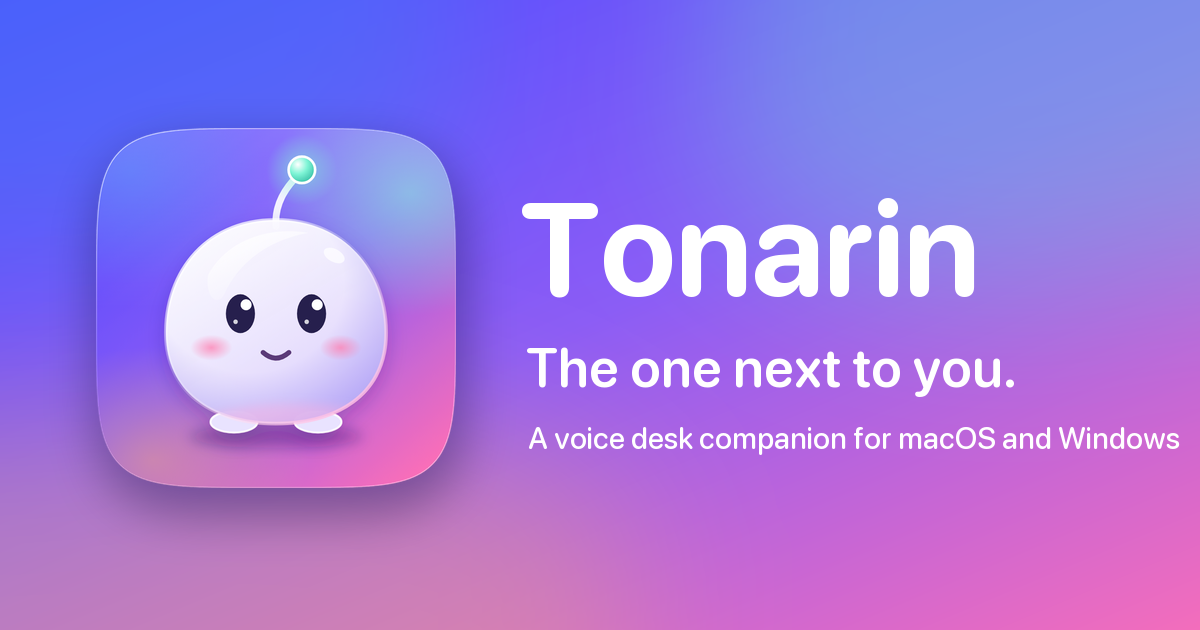
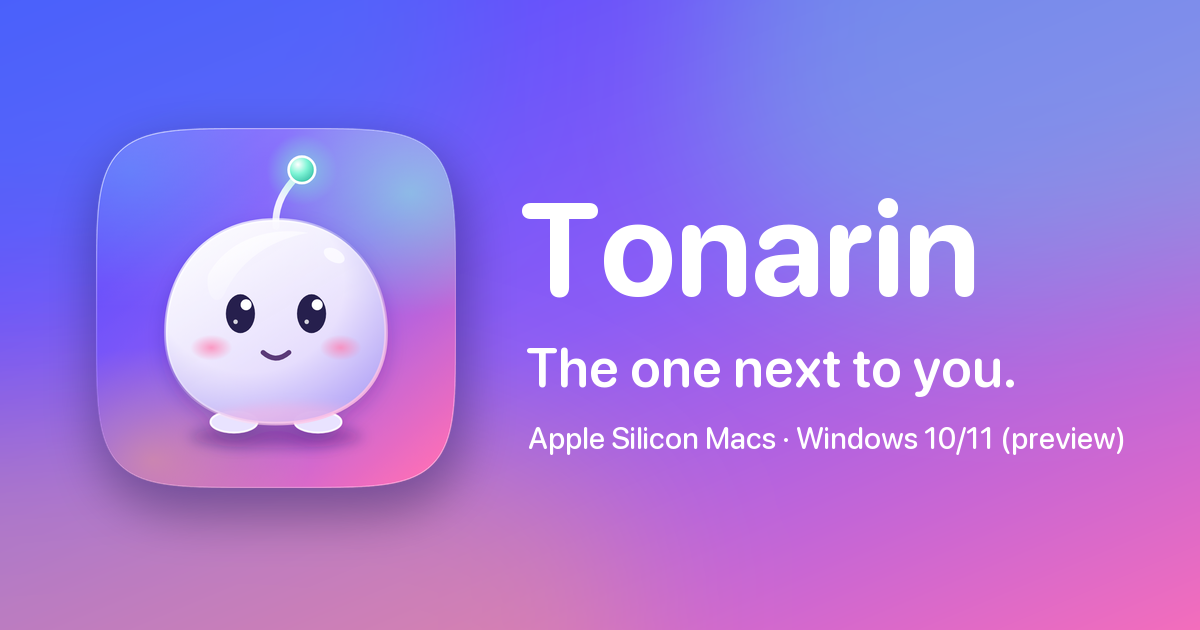
docs: clarify windows preview across public surfaces

Changed region(s): [[0.4317, 0.6635, 0.9867, 0.7238]]

diff --git a/site/app.js b/site/app.js
@@ -23,8 +23,8 @@ const TEXT = {
     fine: {
       mac: "Apple Silicon の Mac 用です (Intel の Mac はまだ対応していません)。",
       win: "Windows 10 / 11 用のプレビュー版です。",
-      other: "Tonarin は macOS (Apple Silicon) と Windows 10 / 11 で動きます。",
-      handheld: "Tonarin はパソコン用のアプリです。Mac (Apple Silicon) か Windows 10 / 11 のパソコンでこのページを開いてください。",
+      other: "Tonarin は Apple Silicon の Mac と Windows 10 / 11（x64 / ARM64、プレビュー）で動きます。",
+      handheld: "Tonarin は Apple Silicon の Mac と Windows 10 / 11（x64 / ARM64、プレビュー）向けのパソコン用アプリです。インストールするには、このページをどちらかのパソコンで開いてください。",
     },
     fineTail: ["Mac 版はアドホック署名済みですが Apple の公証は受けていません。Windows 版は未署名です。初回起動時に警告が出る場合は、", "はじめての起動", "の手順をどうぞ。"],
     noRelease: "最初のリリースを準備しています。それまではソースからビルドできます。",
@@ -49,7 +49,7 @@ const TEXT = {
     answer: {
       win: (tag) => `うん、${tag} から Windows でも話せるようになったよ。まだプレビュー版だけどね。この PC 用はこれ！`,
       mac: (tag) => `うん。Apple Silicon の Mac 用はこれだよ。${tag} が最新！`,
-      other: () => "Mac (Apple Silicon) と Windows で動くよ。どっちにする？",
+      other: () => "Apple Silicon の Mac と Windows 10 / 11（プレビュー）で動くよ。どっちにする？",
       none: () => "もうすぐ最初のリリースだよ。それまではソースからビルドしてね。",
       error: () => "うまく読み込めなかったみたい。GitHub の Releases から持っていってね。",
     },
@@ -67,8 +67,8 @@ const TEXT = {
     fine: {
       mac: "For Apple Silicon Macs (Intel Macs are not supported yet).",
       win: "A preview for Windows 10 and 11.",
-      other: "Tonarin runs on macOS (Apple Silicon) and Windows 10 / 11.",
-      handheld: "Tonarin is a desktop app: open this page on a Mac (Apple Silicon) or a Windows 10 / 11 PC to install it.",
+      other: "Tonarin runs on Apple Silicon Macs and Windows 10/11 x64/ARM64 (preview).",
+      handheld: "Tonarin is a desktop app for Apple Silicon Macs and Windows 10/11 x64/ARM64 (preview). Open this page on one of those computers to install it.",
     },
     fineTail: ["Mac builds are ad hoc signed but not notarized by Apple; Windows installers are unsigned. A warning may appear when you first open the app; see ", "the first launch", " steps."],
     noRelease: "The first release is on its way. Until then you can build from source.",
@@ -93,7 +93,7 @@ const TEXT = {
     answer: {
       win: (tag) => `Yes! Since ${tag} I can talk on Windows too. It's a preview for now. This one's for your PC!`,
       mac: (tag) => `Yes. Here's the one for Apple Silicon Macs. ${tag} is the latest!`,
-      other: () => "I run on Apple Silicon Macs and on Windows. Which one's yours?",
+      other: () => "I run on Apple Silicon Macs and Windows 10/11 (preview). Which one's yours?",
       none: () => "The first release is coming soon. Until then, you can build me from source.",
       error: () => "I couldn't load the list. Grab me from the Releases page on GitHub.",
     },

diff --git a/site/index.html b/site/index.html
@@ -12,12 +12,12 @@
     <title>Tonarin — となりにいる、声の相棒 | ダウンロード</title>
     <meta
       name="description"
-      content="Tonarin (となりん) はデスクトップに住む小さな相棒。Gemini Live とリアルタイムに話せて、じっくり考える質問は GitHub Copilot に任せます。macOS と Windows (プレビュー) 用。A voice desk companion for macOS and Windows."
+      content="Tonarin (となりん) はデスクトップに住む小さな相棒。Gemini Live とリアルタイムに話せて、じっくり考える質問は GitHub Copilot に任せます。Apple Silicon の Mac と Windows 10 / 11（x64 / ARM64、プレビュー）用。A voice desk companion for Apple Silicon Macs and Windows 10/11 x64/ARM64 (preview)."
     />
     <meta property="og:type" content="website" />
     <meta property="og:url" content="https://himiyosh.github.io/tonarin/" />
     <meta property="og:title" content="Tonarin — The one next to you" />
-    <meta property="og:description" content="A voice desk companion for macOS and Windows: real-time conversation with Gemini Live, and GitHub Copilot as the brain for deep dives." />
+    <meta property="og:description" content="A voice desk companion for Apple Silicon Macs and Windows 10/11 x64/ARM64 (preview): real-time Gemini Live with GitHub Copilot for deep dives." />
     <meta property="og:image" content="https://himiyosh.github.io/tonarin/og.png" />
     <meta name="twitter:card" content="summary_large_image" />
     <link rel="icon" href="favicon.png" type="image/png" />

diff --git a/scripts/derive-icons.py b/scripts/derive-icons.py
@@ -95,7 +95,7 @@ def social_card(image, target):
 
     draw.text((520, 168), "Tonarin", font=font(132, 700), fill="white")
     draw.text((526, 334), "The one next to you.", font=font(54, 600), fill="white")
-    draw.text((528, 420), "A voice desk companion for macOS and Windows", font=font(30, 500), fill="white")
+    draw.text((528, 420), "Apple Silicon Macs · Windows 10/11 (preview)", font=font(30, 500), fill="white")
     card.convert("RGB").save(target, optimize=True)
     report(target)
 

diff --git a/README.ja.md b/README.ja.md
@@ -5,7 +5,7 @@
 # Tonarin (となりん)
 
 **となりにいる相棒。** リアルタイムで話せて、じっくり考える仕事は GitHub Copilot に任せる、<br/>
-macOS と Windows のデスクトップに住む音声コンパニオンです。
+Apple Silicon の Mac と Windows 10 / 11（x64 / ARM64、プレビュー）で使える、デスクトップに住む音声コンパニオンです。
 
 **[ダウンロード](https://himiyosh.github.io/tonarin/?lang=ja)** · [リリースノート](https://github.com/himiyosh/tonarin/releases)
 

diff --git a/README.md b/README.md
@@ -4,8 +4,8 @@
 
 # Tonarin
 
-**The one next to you.** A voice desk companion for macOS and Windows that talks with you in real time,<br/>
-and hands the careful thinking to GitHub Copilot.
+**The one next to you.** A voice desk companion for Apple Silicon Macs and Windows 10/11 x64/ARM64 (preview)<br/>
+that talks with you in real time and hands the careful thinking to GitHub Copilot.
 
 **[Download](https://himiyosh.github.io/tonarin/)** · [Release notes](https://github.com/himiyosh/tonarin/releases)
 
